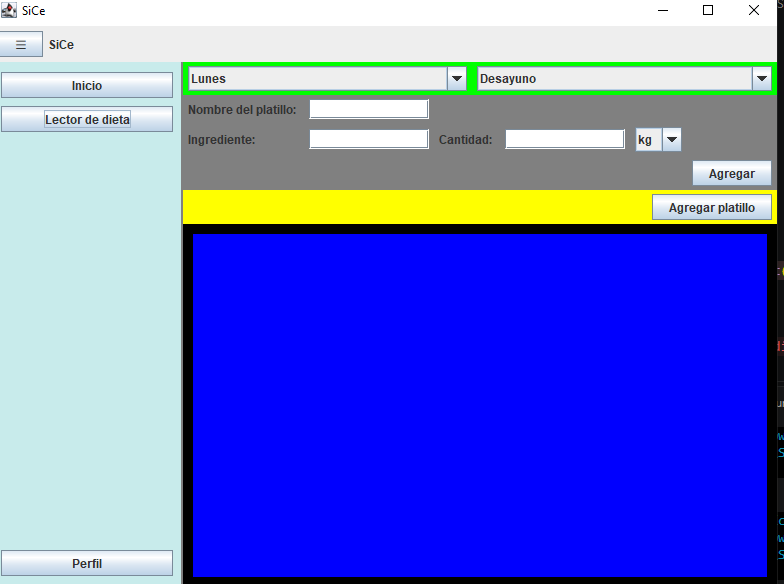
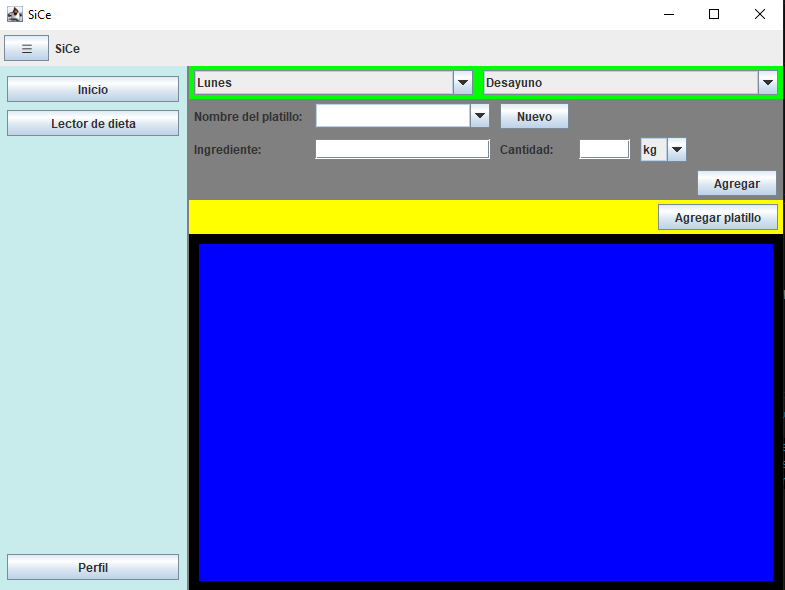
se termino el sistema de construcción del objeto WeeklyDiet y se desarrolló el display que muestra los platillos agragados (se implemento un renderizador hecho con chatgpt para la jtable)

Changed region(s): [[0.0, 0.0, 1.0, 1.0], [0.8878, 0.0, 0.9184, 0.0308]]

diff --git a/src/SiCe/GUI/dietScanner/ManuallyGUI.java b/src/SiCe/GUI/dietScanner/ManuallyGUI.java
@@ -2,6 +2,9 @@ package SiCe.GUI.dietScanner;
 
 import java.awt.*;
 import javax.swing.*;
+import javax.swing.table.DefaultTableCellRenderer;
+import javax.swing.table.DefaultTableModel;
+import javax.swing.table.TableCellRenderer;
 
 import SiCe.Services.*;
 
@@ -12,11 +15,21 @@ public class ManuallyGUI extends JPanel{
     DietScannerActions actions = new DietScannerActions();    
 
     JPanel scanner; JPanel combos; JPanel dishPanel; JPanel dishButton;
+
+    String [] columnas = {"","Lunes", "Martes", "Miércoles", "Jueves", "Viernes", "Sábado", "Domingo"};
+    String[][] datos = {
+            {"Desayuno", "", "", "", "", "", "", ""},
+            {"Colación", "", "", "", "", "", "", ""},
+            {"Comida", "", "", "", "", "", "", ""},
+            {"Colación", "", "", "", "", "", "", ""},
+            {"Cena", "", "", "", "", "", "", ""}
+        };
+    public DefaultTableModel modelo = new DefaultTableModel(datos, columnas);
     JPanel displayDiet;
 
     String[] Dias = {"Lunes", "Martes", "Miércoles", "Jueves", "Viernes", "Sábado", "Domingo"};
     public JComboBox<String> dy = new JComboBox<String>(Dias);
-    String[] Comida = {"Desayuno", "1er colación", "Comida", "2da colación", "Cena"};
+    String[] Comida = {"Desayuno", "1er Colación", "Comida", "2da Colación", "Cena"};
     public JComboBox<String> mealtime = new JComboBox<String>(Comida);
 
     JLabel dish;
@@ -37,15 +50,6 @@ public class ManuallyGUI extends JPanel{
         setLayout(new GridBagLayout());
         GridBagConstraints gbc = new GridBagConstraints();
 
-        displayDiet = new JPanel();
-        displayDiet.setBackground(Color.BLUE);
-        displayDiet.setBorder(
-           BorderFactory.createCompoundBorder(
-         BorderFactory.createMatteBorder(10, 10, 10, 10, Color.BLACK),
-        BorderFactory.createEmptyBorder(20, 20, 20, 20)
-        ));
-        displayDiet.setVisible(true);
-
         gbc.gridx = 0;
         gbc.fill = GridBagConstraints.BOTH;
         gbc.weightx = 1.0;
@@ -56,7 +60,7 @@ public class ManuallyGUI extends JPanel{
 
         gbc.gridy = 1;
         gbc.weighty = 1;
-        add(displayDiet, gbc);
+        add(displayDietCreator(), gbc);
 
         setVisible(true);
         
@@ -173,9 +177,9 @@ public class ManuallyGUI extends JPanel{
         dishButton.setBorder(BorderFactory.createEmptyBorder(4, 5, 4, 5));
             
 
-        combos.setBackground(Color.GREEN);
-        dishPanel.setBackground(Color.GRAY);
-        dishButton.setBackground(Color.YELLOW);
+        combos.setBackground(new Color(170,204,203));
+        dishPanel.setBackground(new Color(230,230,230));
+        dishButton.setBackground(new Color(170,204,203));
 
     //----Acomodando la distribución de los paneles para agregarlos a Scanner-----------------------------
         sgbc.gridx = 0;
@@ -197,5 +201,67 @@ public class ManuallyGUI extends JPanel{
         scanner.add(dishButton, sgbc);
         scanner.setVisible(true);
         return scanner;
+    }
+
+    public JPanel displayDietCreator () {
+
+        displayDiet = new JPanel();
+        displayDiet.setLayout(new BorderLayout());
+        JTable tabla = new JTable(modelo);
+
+        //*************************Renderizador hecho con chatgpt*********************************************************************************************** */
+class MiRenderizador extends JTextArea
+                implements TableCellRenderer {
+
+            public MiRenderizador() {
+                setLineWrap(true);
+                setWrapStyleWord(true);
+                setOpaque(true);
+            }
+
+            @Override
+            public Component getTableCellRendererComponent(
+                    JTable tabla,
+                    Object valor,
+                    boolean seleccionado,
+                    boolean tieneFoco,
+                    int fila,
+                    int columna) {
+
+                setText(valor == null ? "" : valor.toString());
+
+                if (seleccionado) {
+                    setBackground(tabla.getSelectionBackground());
+                    setForeground(tabla.getSelectionForeground());
+                } else {
+                    setBackground(tabla.getBackground());
+                    setForeground(tabla.getForeground());
+                }
+
+                return this;
+            }
+        }
+
+        // 4. Asignamos el renderizador a la tabla
+        tabla.setDefaultRenderer(
+            Object.class,
+            new MiRenderizador()
+        );
+
+        // 5. Ajustamos manualmente la altura de las filas
+        tabla.setRowHeight(170
+
+        );
+
+
+        //***************************************************************************************************************** */
+
+
+
+
+        JScrollPane scrollPane = new JScrollPane(tabla);
+        displayDiet.add(scrollPane, BorderLayout.CENTER);
+
+        return displayDiet;
     }
 }

diff --git a/src/SiCe/Model/Dish.java b/src/SiCe/Model/Dish.java
@@ -1,10 +1,16 @@
 package SiCe.Model;
 
+import javax.swing.*;
 import java.util.ArrayList;
+import java.util.Arrays;
 
 public class Dish {
     ArrayList<Ingredient> ingrs = new ArrayList<Ingredient>();
     public String nombreDelPlatillo;
+    String[] tiemposlot = {"Desayuno", "1er Colación", "Comida", "2da Colación", "Cena"};
+    ArrayList<String> tiempos = new ArrayList<>(Arrays.asList(tiemposlot));
+    String[] diasemana = {"Lunes", "Martes", "Miércoles", "Jueves", "Viernes", "Sábado", "Domingo"};
+    ArrayList<String> diasSema = new ArrayList<>(Arrays.asList(diasemana));
 
     public Dish () {
     }
@@ -20,5 +26,30 @@ public class Dish {
 
     public void dishReload () {
         this.ingrs.clear();
+    }
+
+    public String getLabel () {
+        StringBuilder texto = new StringBuilder();
+
+        texto.append(nombreDelPlatillo).append("\n\n");
+
+        for (Ingredient ingrediente : ingrs) {
+
+        texto.append("- ")
+             .append(ingrediente.name)
+             .append("\n");
+        }
+
+        return texto.toString();
+    }
+
+    public int getSlotMeal (String n) {
+        int tiempo = tiempos.indexOf(n);
+        return tiempo;
+    }
+
+    public int getDay (String n) {
+        int dia = diasSema.indexOf(n)+1;
+        return dia;
     }
 }

diff --git a/src/SiCe/Services/DietScannerActions.java b/src/SiCe/Services/DietScannerActions.java
@@ -3,12 +3,10 @@ package SiCe.Services;
 import SiCe.Model.*;
 import SiCe.GUI.dietScanner.*;
 
-
-
-
+//**********************estructura recomentada por chatGPT********************************************************* */
 public class DietScannerActions {
 
-    WeeklyDiet dietaActual = new WeeklyDiet();
+    public WeeklyDiet dietaActual = new WeeklyDiet();
     Dish borrador;
 
     public void agregarIngrediente (ManuallyGUI gui) {
@@ -50,6 +48,8 @@ public class DietScannerActions {
             }
 
             meal.setDish(borrador);
+
+            gui.modelo.setValueAt(borrador.getLabel(), borrador.getSlotMeal(tiempo), borrador.getDay(dia));
 
             borrador = null;
 

diff --git a/src/SiCe/Model/WeeklyDiet.java b/src/SiCe/Model/WeeklyDiet.java
@@ -11,7 +11,7 @@ public class WeeklyDiet {
 
     public DietDay searchDay (String n) {
         for (DietDay m : diasDeLaSemana){
-            if (m.diaDeLaSemana == n) {
+            if (m.diaDeLaSemana.equals(n)) {
                 return m;
             }
         }

diff --git a/src/SiCe/Model/DietDay.java b/src/SiCe/Model/DietDay.java
@@ -16,7 +16,7 @@ public class DietDay {
 
     public MealSlot searchMealSlot (String n) {
         for (MealSlot m : tiempos){
-            if (m.nombre == n) {
+            if (m.nombre.equals(n)) {
                 return m;
             }
         }
